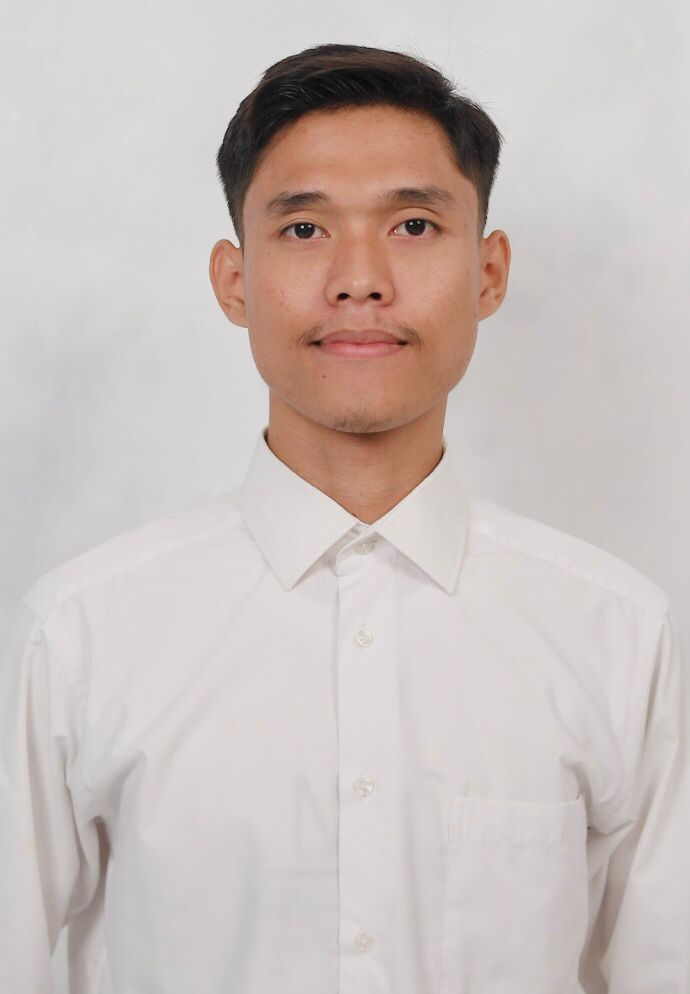
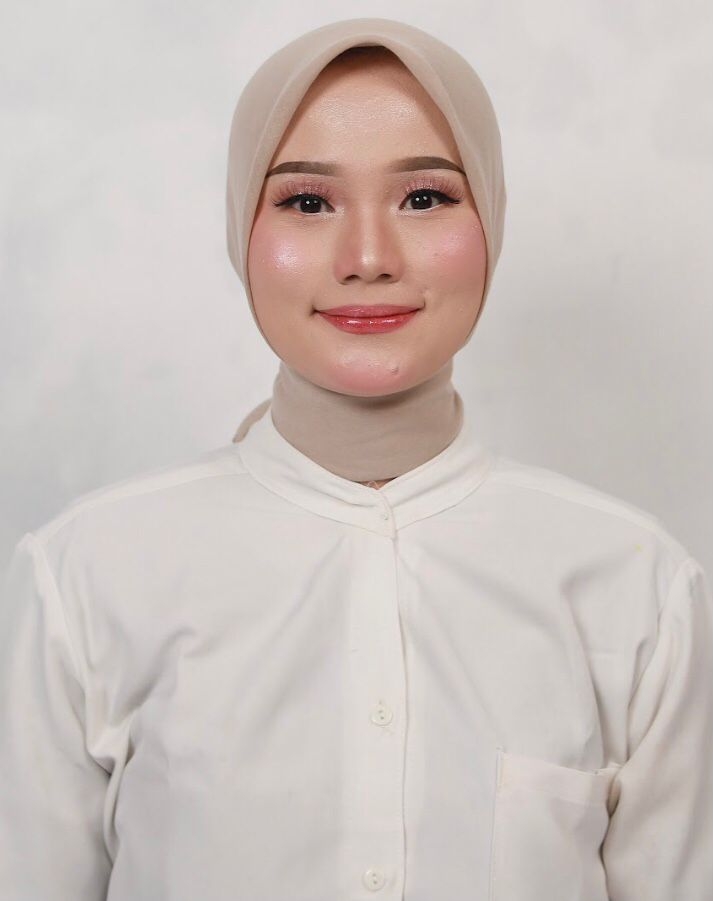
wqeqw

diff --git a/lukman-ema/index.html b/lukman-ema/index.html
@@ -16,11 +16,11 @@
 	</style>
 
 	<!-- This site is optimized with the Yoast SEO plugin v24.9 - https://yoast.com/wordpress/plugins/seo/ -->
-	<title>The Wedding Of Ema & Lukman</title>
+	<title>The Wedding Of Lukman & Ema</title>
 	<meta name="viewport" content="width=device-width, initial-scale=1, shrink-to-fit=no" />
-	<meta property="og:title" content="The Wedding Of Ema & Lukman" />
-	<meta property="og:description" content="Jum'at, 25 Juli 2026" />
-	<meta property="og:image" content="https://momenin.my.id/ema-lukman/wp-content/uploads/2024/09/banner.jpg" />
+	<meta property="og:title" content="The Wedding Of Lukman & Ema" />
+	<meta property="og:description" content="Jum'at, 24 Juli 2026" />
+	<meta property="og:image" content="https://momenin.my.id/lukman-ema/wp-content/uploads/2024/09/banner.jpg" />
 	<meta property="og:url" content="https://momenin.my.id" />
 	<meta property="og:type" content="website" />
 	<meta name="twitter:card" content="summary_large_image">
@@ -2204,7 +2204,7 @@
 						data-aos-duration="2500" data-aos-easing="lease-in-cube" data-aos-offset="10"
 						data-widget_type="heading.default">
 						<div class="elementor-widget-container">
-							<h2 class="elementor-heading-title elementor-size-default">Ema & Lukman</h2>
+							<h2 class="elementor-heading-title elementor-size-default">Lukman & Ema</h2>
 						</div>
 					</div>
 					<div class="elementor-element elementor-element-30f21ce5 elementor-widget elementor-widget-text-editor"
@@ -2472,7 +2472,7 @@
 						data-settings="{&quot;_animation&quot;:&quot;fadeInUp&quot;}"
 						data-widget_type="heading.default">
 						<div class="elementor-widget-container">
-							<h2 class="elementor-heading-title elementor-size-default">Ema & Lukman</h2>
+							<h2 class="elementor-heading-title elementor-size-default">Lukman & Ema</h2>
 						</div>
 					</div>
 					<div class="elementor-element elementor-element-3edc9e82 animated-slow elementor-invisible elementor-widget elementor-widget-text-editor"
@@ -2693,13 +2693,13 @@
 					<div class="elementor-element elementor-element-349468d8 reveal elementor-widget elementor-widget-heading"
 						data-id="349468d8" data-element_type="widget" data-widget_type="heading.default">
 						<div class="elementor-widget-container">
-							<h2 class="elementor-heading-title elementor-size-default">Ema Susiyani, S.H.</h2>
+							<h2 class="elementor-heading-title elementor-size-default">Lukman Abidin, S.Pd.</h2>
 						</div>
 					</div>
 					<div class="elementor-element elementor-element-4cba7d1e reveal elementor-widget elementor-widget-text-editor"
 						data-id="4cba7d1e" data-element_type="widget" data-widget_type="text-editor.default">
 						<div class="elementor-widget-container">
-							Putri dari Bapak Muhammad Akrom<br> &amp; Ibu Kusriah </div>
+							Putra dari Bapak Muskolil <br> &amp; Ibu Noor Yati </div>
 					</div>
 					<div class="elementor-element elementor-element-18676b8a e-grid-align-tablet-center e-grid-align-mobile-center reveal elementor-shape-rounded elementor-grid-0 e-grid-align-center elementor-widget elementor-widget-social-icons"
 						data-id="18676b8a" data-element_type="widget" data-widget_type="social-icons.default">
@@ -2707,7 +2707,7 @@
 							<div class="elementor-social-icons-wrapper elementor-grid">
 								<span class="elementor-grid-item">
 									<a class="elementor-icon elementor-social-icon elementor-social-icon-instagram elementor-animation-grow elementor-repeater-item-6154405"
-										href="https://instagram.com/emaemo15" target="_blank">
+										href="https://instagram.com/abdn.id" target="_blank">
 										<span class="elementor-screen-only">Instagram</span>
 										<i class="fab fa-instagram"></i> </a>
 								</span>
@@ -2743,13 +2743,13 @@
 					<div class="elementor-element elementor-element-306ca9ef reveal elementor-widget elementor-widget-heading"
 						data-id="306ca9ef" data-element_type="widget" data-widget_type="heading.default">
 						<div class="elementor-widget-container">
-							<h2 class="elementor-heading-title elementor-size-default">Lukman Abidin, S.Pd.</h2>
+							<h2 class="elementor-heading-title elementor-size-default">Ema Susiyani, S.H.</h2>
 						</div>
 					</div>
 					<div class="elementor-element elementor-element-143c7a6a reveal elementor-widget elementor-widget-text-editor"
 						data-id="143c7a6a" data-element_type="widget" data-widget_type="text-editor.default">
 						<div class="elementor-widget-container">
-							Putra dari Bapak Muskolil <br> &amp; Ibu Noor Yati </div>
+							Putri dari Bapak Muhammad Akrom<br> &amp; Ibu Kusriah </div>
 					</div>
 					<div class="elementor-element elementor-element-3d8ecd62 e-grid-align-tablet-center e-grid-align-mobile-center reveal elementor-shape-rounded elementor-grid-0 e-grid-align-center elementor-widget elementor-widget-social-icons"
 						data-id="3d8ecd62" data-element_type="widget" data-widget_type="social-icons.default">
@@ -2757,7 +2757,7 @@
 							<div class="elementor-social-icons-wrapper elementor-grid">
 								<span class="elementor-grid-item">
 									<a class="elementor-icon elementor-social-icon elementor-social-icon-instagram elementor-animation-grow elementor-repeater-item-6154405"
-										href="https://instagram.com/abdn.id" target="_blank">
+										href="https://instagram.com/emaemo15" target="_blank">
 										<span class="elementor-screen-only">Instagram</span>
 										<i class="fab fa-instagram"></i> </a>
 								</span>
@@ -3336,6 +3336,7 @@ Untuk itu insyaAllah kami mengikrarkan JANJI SUCI pernikahan pada hari Jumat 24 
 						<div class="elementor-element elementor-element-35552ce6 revealin elementor-widget elementor-widget-text-editor"
 							data-id="35552ce6" data-element_type="widget" data-widget_type="text-editor.default">
 							<div class="elementor-widget-container">
+								di kediaman mempelai wanita </br>
 								Ds Kalipucang Wetan RT 06 RW 02 Kec. Welahan, Jepara </div>
 						</div>
 					</div>
@@ -3356,13 +3357,13 @@ Untuk itu insyaAllah kami mengikrarkan JANJI SUCI pernikahan pada hari Jumat 24 
 						<div class="elementor-element elementor-element-4717d328 revealin elementor-widget elementor-widget-text-editor"
 							data-id="4717d328" data-element_type="widget" data-widget_type="text-editor.default">
 							<div class="elementor-widget-container">
-								<p>Pukul 15.00 WIB - Selesai</p>
+								<p>Pukul 13.00 WIB - Selesai</p>
 							</div>
 						</div>
 						<div class="elementor-element elementor-element-3b753c6b revealin elementor-widget elementor-widget-text-editor"
 							data-id="3b753c6b" data-element_type="widget" data-widget_type="text-editor.default">
 							<div class="elementor-widget-container">
-								Ds Kalipucang Wetan RT 06 RW 02 Kec. Welahan, Jepara </div>
+								Desa Kaliombo RT 06 RW 02 Kec. Pecanggan Kab. Jepara</div>
 						</div>
 					</div>
 					<div class="elementor-element elementor-element-ed38933 elementor-align-center elementor-mobile-align-center elementor-tablet-align-center revealin elementor-widget elementor-widget-button"
@@ -3370,7 +3371,7 @@ Untuk itu insyaAllah kami mengikrarkan JANJI SUCI pernikahan pada hari Jumat 24 
 						<div class="elementor-widget-container">
 							<div class="elementor-button-wrapper">
 								<a class="elementor-button elementor-button-link elementor-size-sm"
-									href="https://maps.app.goo.gl/cKGrVz8p5FqJcGDDA" target="_blank">
+									href="https://maps.app.goo.gl/hKy92h2k22kuqXNL6" target="_blank">
 									<span class="elementor-button-content-wrapper">
 										<span class="elementor-button-icon">
 											<i aria-hidden="true" class="fas fa-map-marker-alt"></i> </span>
@@ -3634,6 +3635,17 @@ Untuk itu insyaAllah kami mengikrarkan JANJI SUCI pernikahan pada hari Jumat 24 
 												data-width="1024" data-height="682" aria-label="" role="img"></div>
 											<div class="elementor-gallery-item__overlay"></div>
 										</a>
+										<a class="e-gallery-item elementor-gallery-item elementor-animated-content"
+											href="wp-content/uploads/2024/09/12.jpg"
+											data-elementor-open-lightbox="yes"
+											data-elementor-lightbox-slideshow="5660ac10"
+											data-elementor-lightbox-title=".jpg"
+											data-e-action-hash="#elementor-action%3Aaction%3Dlightbox%26settings%3DeyJpZCI6MjM2MjYsInVybCI6Imh0dHBzOlwvXC9pbnYucHVuYWthd2FuZGlnaXRhbC5pZFwvd3AtY29udGVudFwvdXBsb2Fkc1wvMjAyNFwvMDlcL0ZvdG8tMi53ZWJwIiwic2xpZGVzaG93IjoiNTY2MGFjMTAifQ%3D%3D">
+											<div class="e-gallery-image elementor-gallery-item__image"
+												data-thumbnail="wp-content/uploads/2024/09/12.jpg"
+												data-width="1024" data-height="682" aria-label="" role="img"></div>
+											<div class="elementor-gallery-item__overlay"></div>
+										</a>
 									</div>
 								</div>
 							</div>
@@ -3733,13 +3745,13 @@ Untuk itu insyaAllah kami mengikrarkan JANJI SUCI pernikahan pada hari Jumat 24 
 							<div class="elementor-element elementor-element-615bac1b elementor-widget elementor-widget-heading"
 								data-id="615bac1b" data-element_type="widget" data-widget_type="heading.default">
 								<div class="elementor-widget-container">
-									<p class="elementor-heading-title elementor-size-default" id="rek1">1840012331243</p>
+									<p class="elementor-heading-title elementor-size-default" id="rek2">1840012659122</p>
 								</div>
 							</div>
 							<div class="elementor-element elementor-element-33aa3b1c elementor-widget elementor-widget-heading"
 								data-id="33aa3b1c" data-element_type="widget" data-widget_type="heading.default">
 								<div class="elementor-widget-container">
-									<p class="elementor-heading-title elementor-size-default">EMA SUSIYANI</p>
+									<p class="elementor-heading-title elementor-size-default">LUKMAN ABIDIN</p>
 								</div>
 							</div>
 							<div class="elementor-element elementor-element-c8cbf13 elementor-align-right elementor-tablet-align-right elementor-mobile-align-right elementor-widget elementor-widget-weddingpress-copy-text"
@@ -3753,7 +3765,7 @@ Untuk itu insyaAllah kami mengikrarkan JANJI SUCI pernikahan pada hari Jumat 24 
 									<div class="elementor-button-wrapper">
 										<div class="copy-content spancontent" style="display: none;"></div>
 
-										<a style="cursor:pointer;" onclick="copyText('rek1', this)"
+										<a style="cursor:pointer;" onclick="copyText('rek2', this)"
 											data-message="berhasil disalin" class="elementor-button" role="button">
 
 											<div class="elementor-button-content-wrapper">
@@ -3790,13 +3802,13 @@ Untuk itu insyaAllah kami mengikrarkan JANJI SUCI pernikahan pada hari Jumat 24 
 							<div class="elementor-element elementor-element-615bac1b elementor-widget elementor-widget-heading"
 								data-id="615bac1b" data-element_type="widget" data-widget_type="heading.default">
 								<div class="elementor-widget-container">
-									<p class="elementor-heading-title elementor-size-default" id="rek2">1840012659122</p>
+									<p class="elementor-heading-title elementor-size-default" id="rek1">1840012331243</p>
 								</div>
 							</div>
 							<div class="elementor-element elementor-element-33aa3b1c elementor-widget elementor-widget-heading"
 								data-id="33aa3b1c" data-element_type="widget" data-widget_type="heading.default">
 								<div class="elementor-widget-container">
-									<p class="elementor-heading-title elementor-size-default">LUKMAN ABIDIN</p>
+									<p class="elementor-heading-title elementor-size-default">EMA SUSIYANI</p>
 								</div>
 							</div>
 							<div class="elementor-element elementor-element-c8cbf13 elementor-align-right elementor-tablet-align-right elementor-mobile-align-right elementor-widget elementor-widget-weddingpress-copy-text"
@@ -3810,7 +3822,7 @@ Untuk itu insyaAllah kami mengikrarkan JANJI SUCI pernikahan pada hari Jumat 24 
 									<div class="elementor-button-wrapper">
 										<div class="copy-content spancontent" style="display: none;"></div>
 
-										<a style="cursor:pointer;" onclick="copyText('rek2', this)"
+										<a style="cursor:pointer;" onclick="copyText('rek1', this)"
 											data-message="berhasil disalin" class="elementor-button" role="button">
 
 											<div class="elementor-button-content-wrapper">
@@ -4174,7 +4186,7 @@ Untuk itu insyaAllah kami mengikrarkan JANJI SUCI pernikahan pada hari Jumat 24 
 							</div>
 							<script>
 								// Google Apps Script Web App URL
-								const scriptUrl = 'https://script.google.com/macros/s/AKfycbwaXRNfuN3QCdVVDCO7YHQxzqQcH6LP4yJnfaYVZTk-xr2FZEyxZUUDf7b6hpZKe9M5/exec';
+								const scriptUrl = 'https://script.google.com/macros/s/AKfycbx_MfoL9dXaBP92_zkIuFY50AnTLids4jqxExXWHYHoxVICGyGeRCGOz3KgzWi-3_Ytwg/exec';
 
 								document.addEventListener('DOMContentLoaded', function () {
 									// Load existing wishes when page loads
@@ -4313,7 +4325,7 @@ Untuk itu insyaAllah kami mengikrarkan JANJI SUCI pernikahan pada hari Jumat 24 
 						data-settings="{&quot;_animation&quot;:&quot;fadeInUp&quot;}"
 						data-widget_type="heading.default">
 						<div class="elementor-widget-container">
-							<h2 class="elementor-heading-title elementor-size-default">Ema & Lukman</h2>
+							<h2 class="elementor-heading-title elementor-size-default">Lukman & Ema</h2>
 						</div>
 					</div>
 					<div class="elementor-element elementor-element-7a713894 elementor-widget elementor-widget-spacer"

diff --git a/ema-lukman/index.html b/ema-lukman/index.html
@@ -19,7 +19,7 @@
 	<title>The Wedding Of Ema & Lukman</title>
 	<meta name="viewport" content="width=device-width, initial-scale=1, shrink-to-fit=no" />
 	<meta property="og:title" content="The Wedding Of Ema & Lukman" />
-	<meta property="og:description" content="Jum'at, 25 Juli 2026" />
+	<meta property="og:description" content="Jum'at, 24 Juli 2026" />
 	<meta property="og:image" content="https://momenin.my.id/ema-lukman/wp-content/uploads/2024/09/banner.jpg" />
 	<meta property="og:url" content="https://momenin.my.id" />
 	<meta property="og:type" content="website" />
@@ -3631,6 +3631,17 @@ Untuk itu insyaAllah kami mengikrarkan JANJI SUCI pernikahan pada hari Jumat 24 
 											data-e-action-hash="#elementor-action%3Aaction%3Dlightbox%26settings%3DeyJpZCI6MjM2MjYsInVybCI6Imh0dHBzOlwvXC9pbnYucHVuYWthd2FuZGlnaXRhbC5pZFwvd3AtY29udGVudFwvdXBsb2Fkc1wvMjAyNFwvMDlcL0ZvdG8tMi53ZWJwIiwic2xpZGVzaG93IjoiNTY2MGFjMTAifQ%3D%3D">
 											<div class="e-gallery-image elementor-gallery-item__image"
 												data-thumbnail="wp-content/uploads/2024/09/8.jpg"
+												data-width="1024" data-height="682" aria-label="" role="img"></div>
+											<div class="elementor-gallery-item__overlay"></div>
+										</a>
+										<a class="e-gallery-item elementor-gallery-item elementor-animated-content"
+											href="wp-content/uploads/2024/09/12.jpg"
+											data-elementor-open-lightbox="yes"
+											data-elementor-lightbox-slideshow="5660ac10"
+											data-elementor-lightbox-title=".jpg"
+											data-e-action-hash="#elementor-action%3Aaction%3Dlightbox%26settings%3DeyJpZCI6MjM2MjYsInVybCI6Imh0dHBzOlwvXC9pbnYucHVuYWthd2FuZGlnaXRhbC5pZFwvd3AtY29udGVudFwvdXBsb2Fkc1wvMjAyNFwvMDlcL0ZvdG8tMi53ZWJwIiwic2xpZGVzaG93IjoiNTY2MGFjMTAifQ%3D%3D">
+											<div class="e-gallery-image elementor-gallery-item__image"
+												data-thumbnail="wp-content/uploads/2024/09/12.jpg"
 												data-width="1024" data-height="682" aria-label="" role="img"></div>
 											<div class="elementor-gallery-item__overlay"></div>
 										</a>
